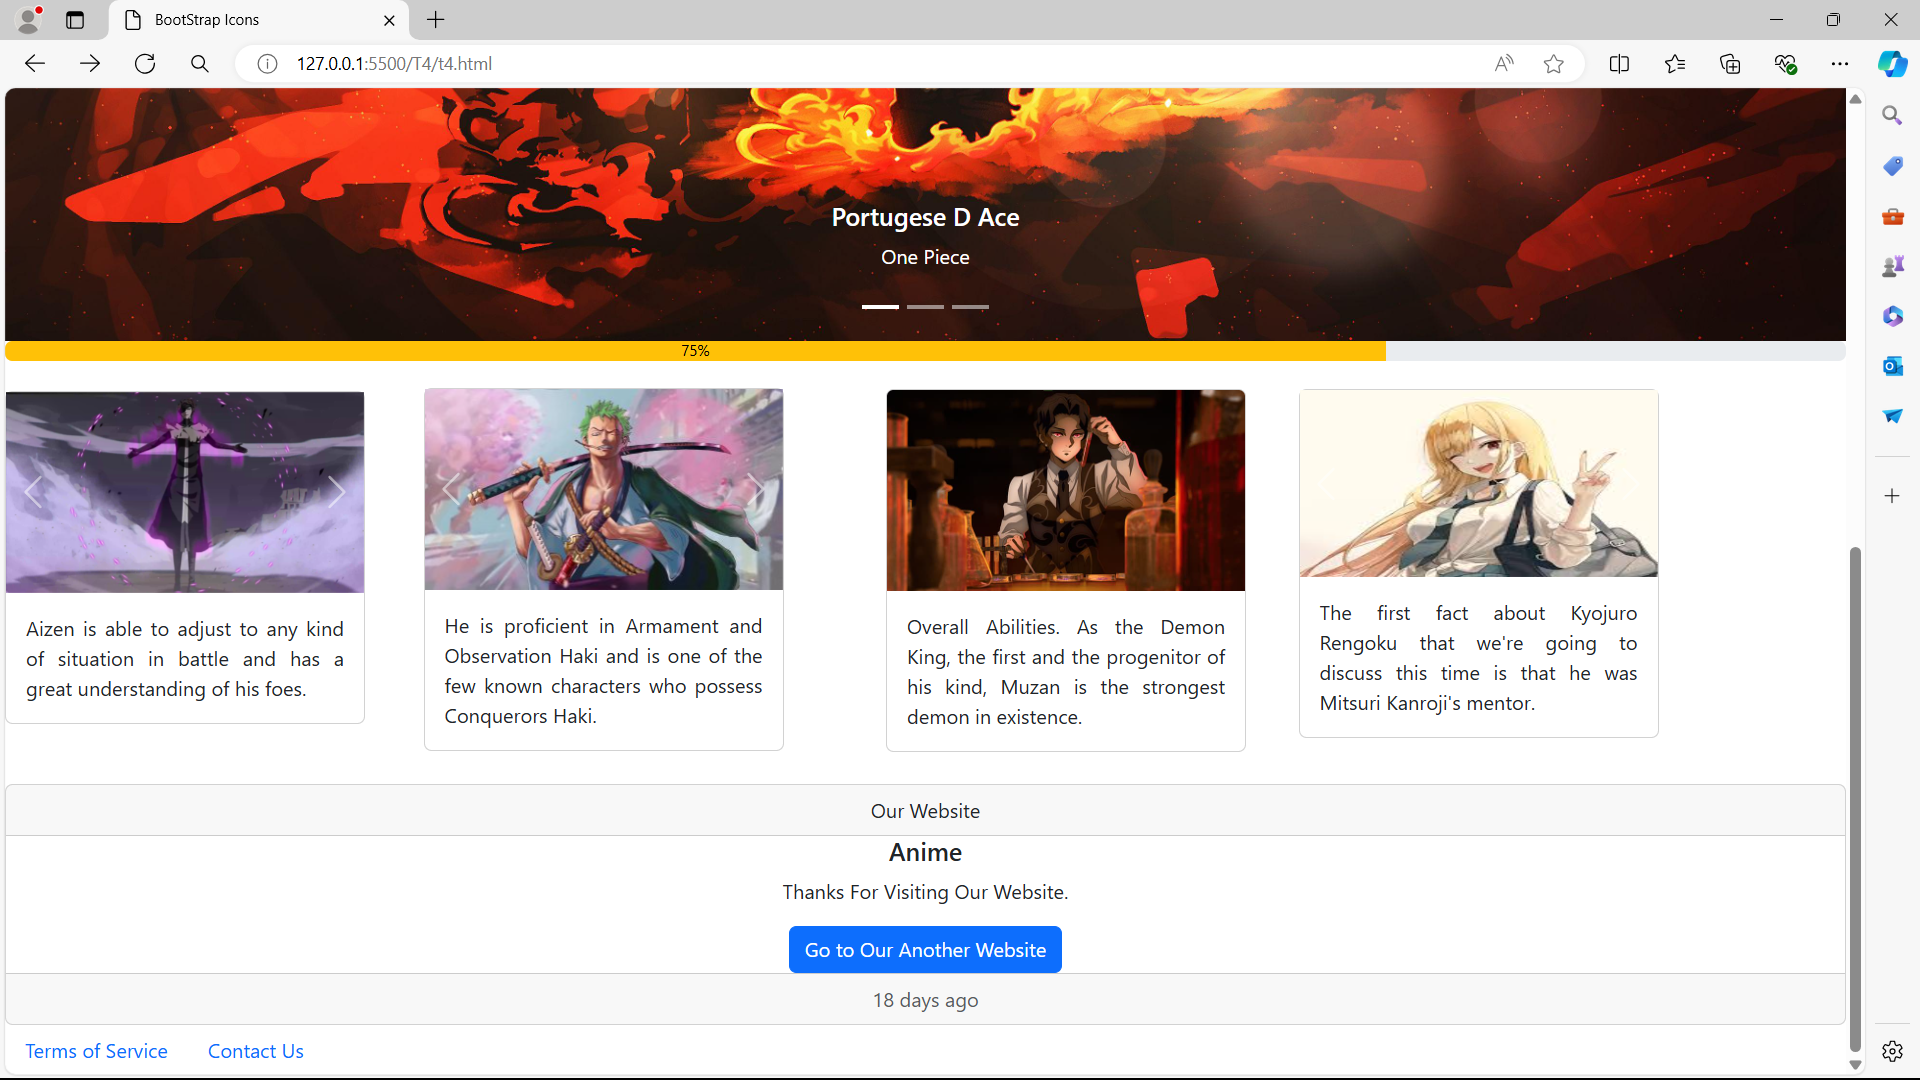
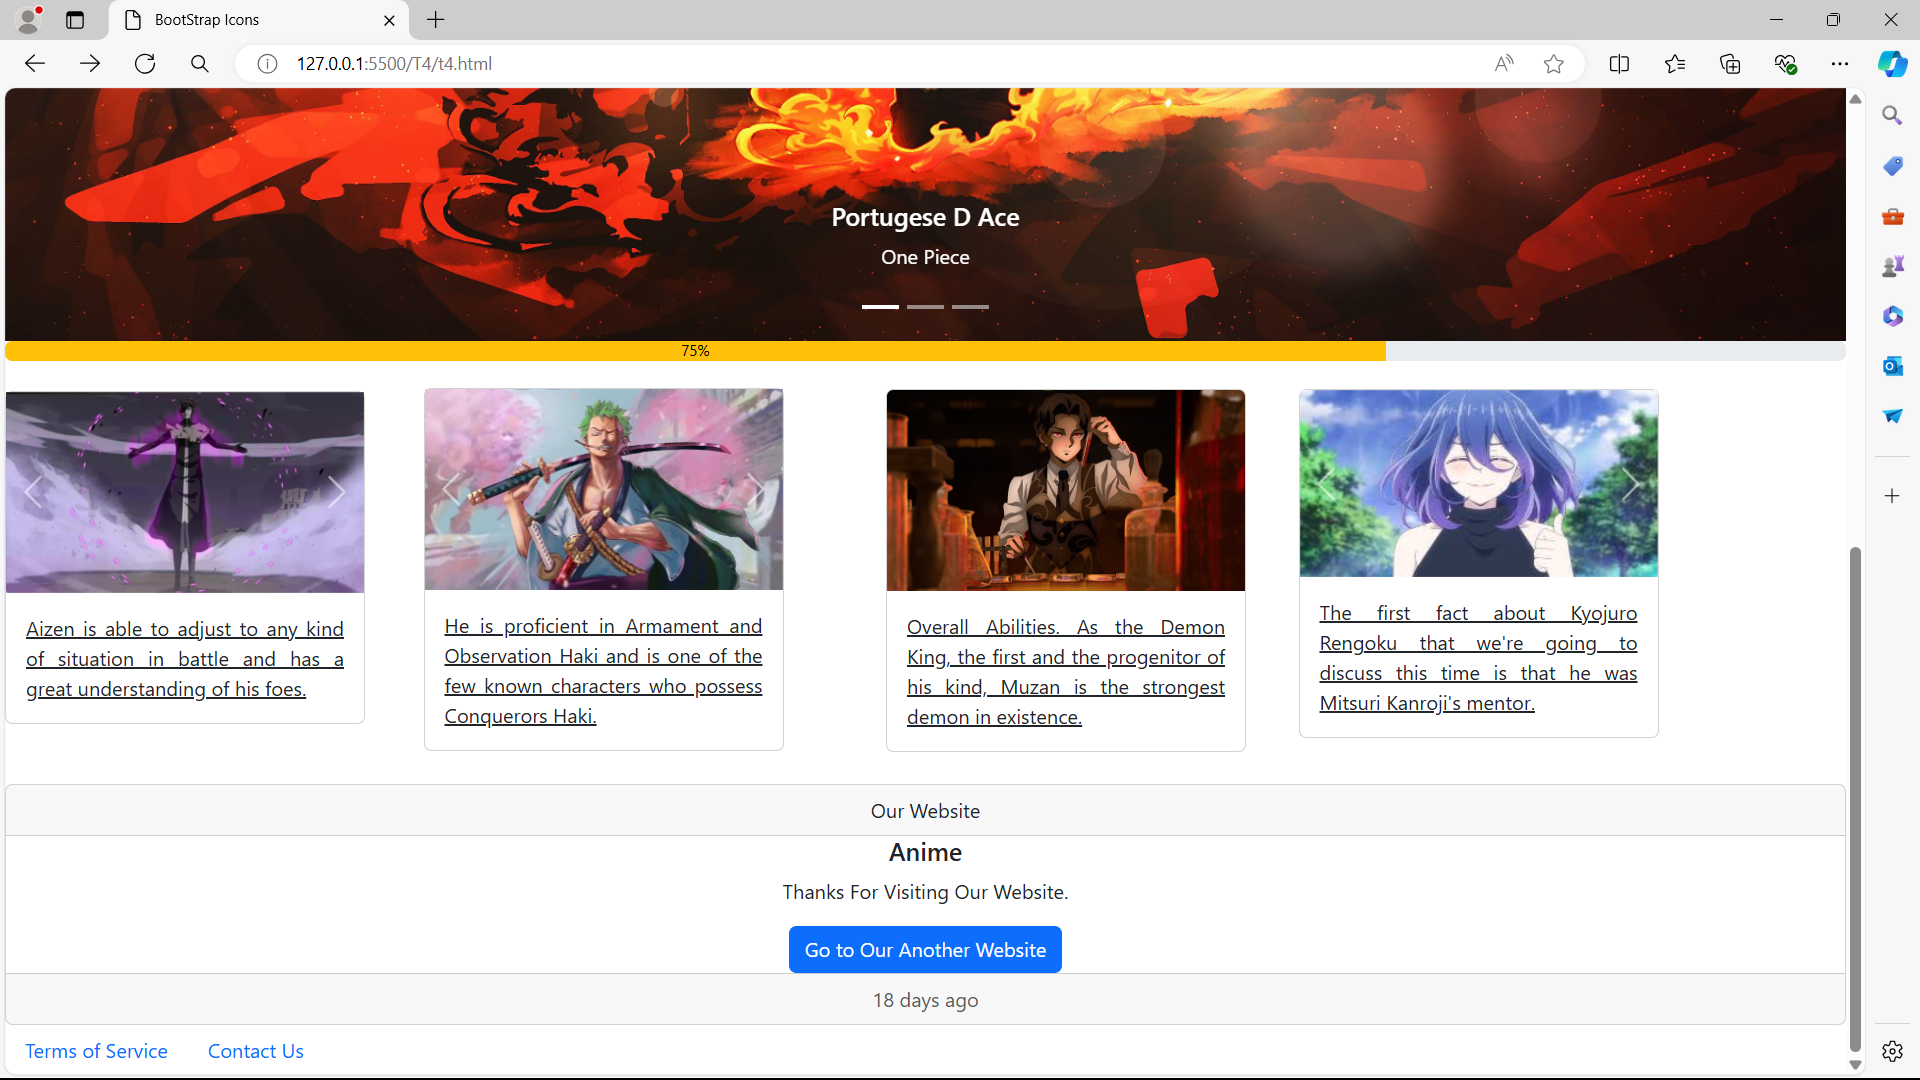
Task Completed

Changed region(s): [[0.6562, 0.3361, 0.875, 0.55], [0.4375, 0.1833, 0.5312, 0.2444], [0.25, 0.6417, 0.3125, 0.6722]]

diff --git a/Task 2/t4.html b/Task 2/t4.html
@@ -7,8 +7,7 @@
     <script src="https://cdn.jsdelivr.net/npm/bootstrap@5.3.3/dist/js/bootstrap.bundle.min.js" integrity="sha384-YvpcrYf0tY3lHB60NNkmXc5s9fDVZLESaAA55NDzOxhy9GkcIdslK1eN7N6jIeHz" crossorigin="anonymous"></script>
      <style>
       .card-body{
-        justify-content: baseline;
-
+        text-decoration: underline;
         text-align: justify;
       }
      </style>
@@ -35,10 +34,10 @@
                   Genre
                 </a>
                 <ul class="dropdown-menu">
-                  <li><a class="dropdown-item" href="t4.2.html">Action</a></li>
-                  <li><a class="dropdown-item" href="t4.3.html">Cars</a></li>
+                  <li><a class="dropdown-item" href="t4.4.html">Action</a></li>
+                  <li><a class="dropdown-item" href="t4.5.html">Adventures</a></li>
                   <li><hr class="dropdown-divider"></li>
-                  <li><a class="dropdown-item" href="t4.1.html">Thriller</a></li>
+                  <li><a class="dropdown-item" href="t4.6.html">Thriller</a></li>
                 </ul>
               </li>
               <li class="nav-item">
@@ -164,13 +163,13 @@
         <div id="carouselExample3" class="carousel slide">
           <div class="carousel-inner">
             <div class="carousel-item active">
-              <img src="kitagawa.jpeg" class="d-block w-100" alt="..." height="150px" width="10px">
+              <img src="vermiel.jpeg" class="d-block w-100" alt="..." height="150px" width="10px">
+            </div>
+            <div class="carousel-item" height="20px" width="2500px">
+              <img src="robin.jpg" class="d-block w-100" alt="...">
             </div>
             <div class="carousel-item">
-              <img src="robin.jpeg" class="d-block w-100" alt="..." height="300px" width="50px">
-            </div>
-            <div class="carousel-item">
-              <img src="vermiel.jpeg" class="d-block w-100" alt="...">
+              <img src="kitagawa.jpeg" class="d-block w-100" alt="..." height="180px" width="10px">
             </div>
           </div>
           <button class="carousel-control-prev" type="button" data-bs-target="#carouselExample3" data-bs-slide="prev">

diff --git a/Task 2/t4.5.html b/Task 2/t4.5.html
@@ -1,0 +1,18 @@
+<!DOCTYPE html>
+<html lang="en">
+<head>
+    <meta charset="UTF-8">
+    <meta name="viewport" content="width=device-width, initial-scale=1.0">
+    <title>Document</title>
+    <link href="https://cdn.jsdelivr.net/npm/bootstrap@5.3.3/dist/css/bootstrap.min.css" rel="stylesheet" integrity="sha384-QWTKZyjpPEjISv5WaRU9OFeRpok6YctnYmDr5pNlyT2bRjXh0JMhjY6hW+ALEwIH" crossorigin="anonymous">
+    <script src="https://cdn.jsdelivr.net/npm/bootstrap@5.3.3/dist/js/bootstrap.bundle.min.js" integrity="sha384-YvpcrYf0tY3lHB60NNkmXc5s9fDVZLESaAA55NDzOxhy9GkcIdslK1eN7N6jIeHz" crossorigin="anonymous"></script>
+</head>
+<body>
+    <h5>This Section is for Adventures Only.</h5>
+
+    <figure class="figure">
+        <img src="rengoku.jpg" class="figure-img img-fluid rounded" alt="...">
+        <figcaption class="figure-caption">Demon Slayer</figcaption>
+      </figure>
+</body>
+</html>

diff --git a/Task 2/t4.6.html b/Task 2/t4.6.html
@@ -1,0 +1,18 @@
+<!DOCTYPE html>
+<html lang="en">
+<head>
+    <meta charset="UTF-8">
+    <meta name="viewport" content="width=device-width, initial-scale=1.0">
+    <title>Document</title>
+    <link href="https://cdn.jsdelivr.net/npm/bootstrap@5.3.3/dist/css/bootstrap.min.css" rel="stylesheet" integrity="sha384-QWTKZyjpPEjISv5WaRU9OFeRpok6YctnYmDr5pNlyT2bRjXh0JMhjY6hW+ALEwIH" crossorigin="anonymous">
+    <script src="https://cdn.jsdelivr.net/npm/bootstrap@5.3.3/dist/js/bootstrap.bundle.min.js" integrity="sha384-YvpcrYf0tY3lHB60NNkmXc5s9fDVZLESaAA55NDzOxhy9GkcIdslK1eN7N6jIeHz" crossorigin="anonymous"></script>
+</head>
+<body>
+    <h2>This Section is for Thrillers Only.</h2>
+
+    <figure class="figure">
+        <img src="death note.jpg" class="figure-img img-fluid rounded" alt="...">
+        <figcaption class="figure-caption">Death Note</figcaption>
+      </figure>
+</body>
+</html>

diff --git a/Task 2/t4.4.html b/Task 2/t4.4.html
@@ -1,0 +1,18 @@
+<!DOCTYPE html>
+<html lang="en">
+<head>
+    <meta charset="UTF-8">
+    <meta name="viewport" content="width=device-width, initial-scale=1.0">
+    <link href="https://cdn.jsdelivr.net/npm/bootstrap@5.3.3/dist/css/bootstrap.min.css" rel="stylesheet" integrity="sha384-QWTKZyjpPEjISv5WaRU9OFeRpok6YctnYmDr5pNlyT2bRjXh0JMhjY6hW+ALEwIH" crossorigin="anonymous">
+    <script src="https://cdn.jsdelivr.net/npm/bootstrap@5.3.3/dist/js/bootstrap.bundle.min.js" integrity="sha384-YvpcrYf0tY3lHB60NNkmXc5s9fDVZLESaAA55NDzOxhy9GkcIdslK1eN7N6jIeHz" crossorigin="anonymous"></script>
+    <title>Document</title>
+</head>
+<body>
+    <h2>This Section is for Action Only.</h2>
+
+    <figure class="figure">
+        <img src="zoro.jpg" class="figure-img img-fluid rounded" alt="...">
+        <figcaption class="figure-caption">One Piece</figcaption>
+      </figure>
+</body>
+</html>
